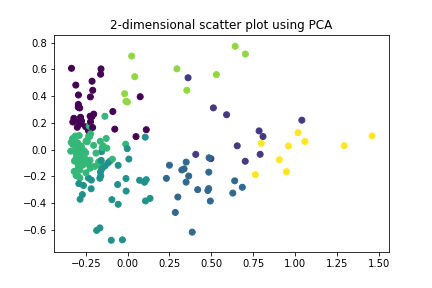
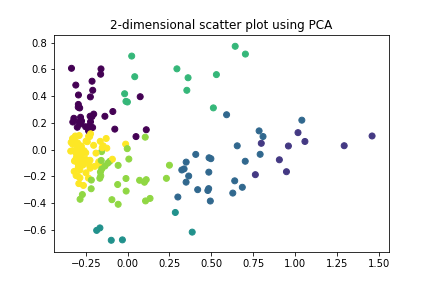
Adding code for Hypothesis 2 and a file we found that shows the changes in tract numbers from 2000 to 2010.

diff --git a/hypothesis2.py b/hypothesis2.py
@@ -1,0 +1,147 @@
+import pandas as pd
+import numpy as np
+import csv
+from sklearn.neighbors import KNeighborsClassifier
+from sklearn.model_selection import cross_val_score
+from sklearn.linear_model import LinearRegression
+from sklearn.model_selection import train_test_split
+from sklearn.tree import DecisionTreeClassifier
+from sklearn.metrics import classification_report
+from sklearn.metrics import confusion_matrix
+from sklearn.metrics import accuracy_score
+from sklearn.model_selection import KFold
+
+census2000_file = 'census_2000_CLEAN.csv'
+census2010_file = 'census_2010_CLEAN.csv'
+
+
+# Opens CSV file and returns pandas dataframe
+def file_to_df( filename ):
+    myData = pd.read_csv( filename , sep=',', encoding='latin1')
+    return myData
+
+# Creates a new column in each datafram that takes the total number of White
+# people recorded and divdes it by the total population in that area.
+def createNewVar2000( census2000 ):
+    # Create variable for census2000 data
+    # We found a row wehre TOTAL == 0 which is making %WHITE NaN and I tried 
+    # this method and it didn't work so I decided to manually remove the row
+    #census2000['TOTAL'].replace(0, np.nan, inplace=True)
+    #census2000.dropna( axis='columns' )
+    census2000 = census2000.drop( census2000.index[59] )
+    
+    census2000['%WHITE'] = census2000['WHITE'] / census2000['TOTAL']
+    census2000['%WHITE'] = census2000['%WHITE'].round( decimals=3 )
+
+    return census2000
+ 
+def createNewVar2010( census2010 ):    
+    # Create variable for census2010 data
+    census2010['%WHITE'] = census2010['Total Non-Minority Population (White Not Hispanic)'] / census2010['Total Population']
+    return census2010 
+    
+def tTest( census2000, census2010 ):
+    # Perform t-test for Census 2000 data
+    # Get values of %WHITE and FAGI_MEDIAN_2005 in lists
+    x_WHITE = census2000['%WHITE'].to_numpy().reshape((-1,1))
+    y_FAGI = census2000['FAGI_MEDIAN_2005'].to_numpy()
+    
+    
+    # Create linear regression and 
+    model = LinearRegression().fit( x_WHITE, y_FAGI )
+    r2 = model.score( x_WHITE, y_FAGI )
+    print('R-squared score for 2000:', r2 )
+    
+    # Perform t-test for Census 2010 data
+    # Get values of %WHITE and FAGI_MEAN_2005 in lists
+    x_WHITE = census2010['%WHITE'].to_numpy().reshape((-1,1))
+    y_FAGI = census2010['FAGI_MEDIAN_2010'].to_numpy()
+    
+    
+    model = LinearRegression().fit( x_WHITE, y_FAGI )
+    r2 = model.score( x_WHITE, y_FAGI )
+    print('R-squared score for 2010:', r2, '\n' )
+
+def classifier( census2000, census2010 ):
+    # Create subset of Census 2000 data to train to classify neighborhood cluster 
+    myData2000 = census2000[['TOTAL','WHITE','BLACK','AMERIND','ASIAN','HISPANIC','FAGI_TOTAL_2005',
+             'FAGI_MEAN_2005', 'NEIGHBORHOODCLUSTER']]
+    # Separate training and final validation data sets. 
+    valueArray = myData2000.values
+    X = valueArray[:, 0:9]
+    Y = valueArray[:, 8]
+    test_size = 0.20
+    seed = 7
+    X_train, X_validate, Y_train, Y_validate = train_test_split(X, Y, test_size=test_size, random_state=seed)
+
+    num_folds = 10
+    seed = 7
+    scoring = 'accuracy'    
+
+    # Add each algorithm and its name to the model array
+    models = []
+    models.append(('KNN', KNeighborsClassifier()))
+    models.append(('DT', DecisionTreeClassifier()))
+    
+    # Evaluate each model, add results to a results array,
+    # Print the accuracy results (remember these are averages and std
+    results = []
+    names = []
+    print('Models for Census 2000:')
+    for name, model in models:
+        kfold = KFold(n_splits=num_folds, random_state=seed, shuffle=False)
+        cv_results = cross_val_score(model, X_train, Y_train, cv=kfold, scoring=scoring)
+        results.append(cv_results)
+        names.append(name)
+        msg = "%s: %f (%f)" % (name, cv_results.mean(), cv_results.std())
+        print(msg)
+        
+        model.fit(X_train, Y_train)
+        predictions = model.predict(X_validate)
+        
+        print( name, 'Validation:')
+        print(accuracy_score(Y_validate, predictions))
+        print(confusion_matrix(Y_validate, predictions), '\n')
+
+
+    
+    # Create subset of Census 2010 data to train to classify neighborhood cluster 
+    myData2010 = census2010[['Total Population','Total Non-Minority Population (White Not Hispanic)',
+             'Total Hispanic Population','Not Hispanic Pop of 1 race: Black',
+             'Not Hispanic Pop of 1 race: American Indian Alaskan',
+             'Not Hispanic Pop of 1 race: Asian','Not Hispanic Pop of 1 race: Other Race',
+             'FAGI_TOTAL_2010','FAGI_MEDIAN_2010', 'NEIGHBORHOODCLUSTER']]
+    # Separate training and final validation data sets. 
+    valueArray = myData2010.values
+    X2 = valueArray[:, 0:9]
+    Y2 = valueArray[:, 9]
+    X_train2, X_validate2, Y_train2, Y_validate2 = train_test_split(X2, Y2, test_size=test_size, random_state=seed)
+    print('Models for Census 2010:')
+    for name, model in models:
+        kfold = KFold(n_splits=num_folds, random_state=seed, shuffle=False)
+        cv_results = cross_val_score(model, X_train2, Y_train2, cv=kfold, scoring=scoring)
+        results.append(cv_results)
+        names.append(name)
+        msg = "%s: %f (%f)" % (name, cv_results.mean(), cv_results.std())
+        print(msg, '\n')
+        
+        model.fit(X_train2, Y_train2)
+        predictions = model.predict(X_validate2)
+        
+        print( name, 'Validation:')
+        print(accuracy_score(Y_validate2, predictions))
+        print(confusion_matrix(Y_validate2, predictions), '\n')
+    
+
+
+def main():
+    census2000 = file_to_df( census2000_file )
+    census2010 = file_to_df( census2010_file )
+    census2000 = createNewVar2000( census2000 )
+    census2010 = createNewVar2010( census2010 )
+    
+    tTest( census2000, census2010 )
+    classifier( census2000, census2010 )
+    
+if __name__ == "__main__":
+    main()

diff --git a/cluster.py b/cluster.py
@@ -51,7 +51,7 @@ def ward( df, framename ):
     
     ward = AgglomerativeClustering(affinity='euclidean', compute_full_tree='auto',
                         connectivity=None, distance_threshold=None,
-                        linkage='ward', memory=None, n_clusters=2,
+                        linkage='ward', memory=None, n_clusters=5,
                         pooling_func='deprecated').fit( normalizedDataFrame )
     cluster_labels = ward.labels_
     silhouette_avg = silhouette_score( normalizedDataFrame, cluster_labels)
@@ -137,7 +137,6 @@ def main():
     ward( census2010, 'census2010' )
     km( census2010, 'census2010' )
     db( census2010, 'census2010' )
-
     
 
 if __name__== "__main__" :
